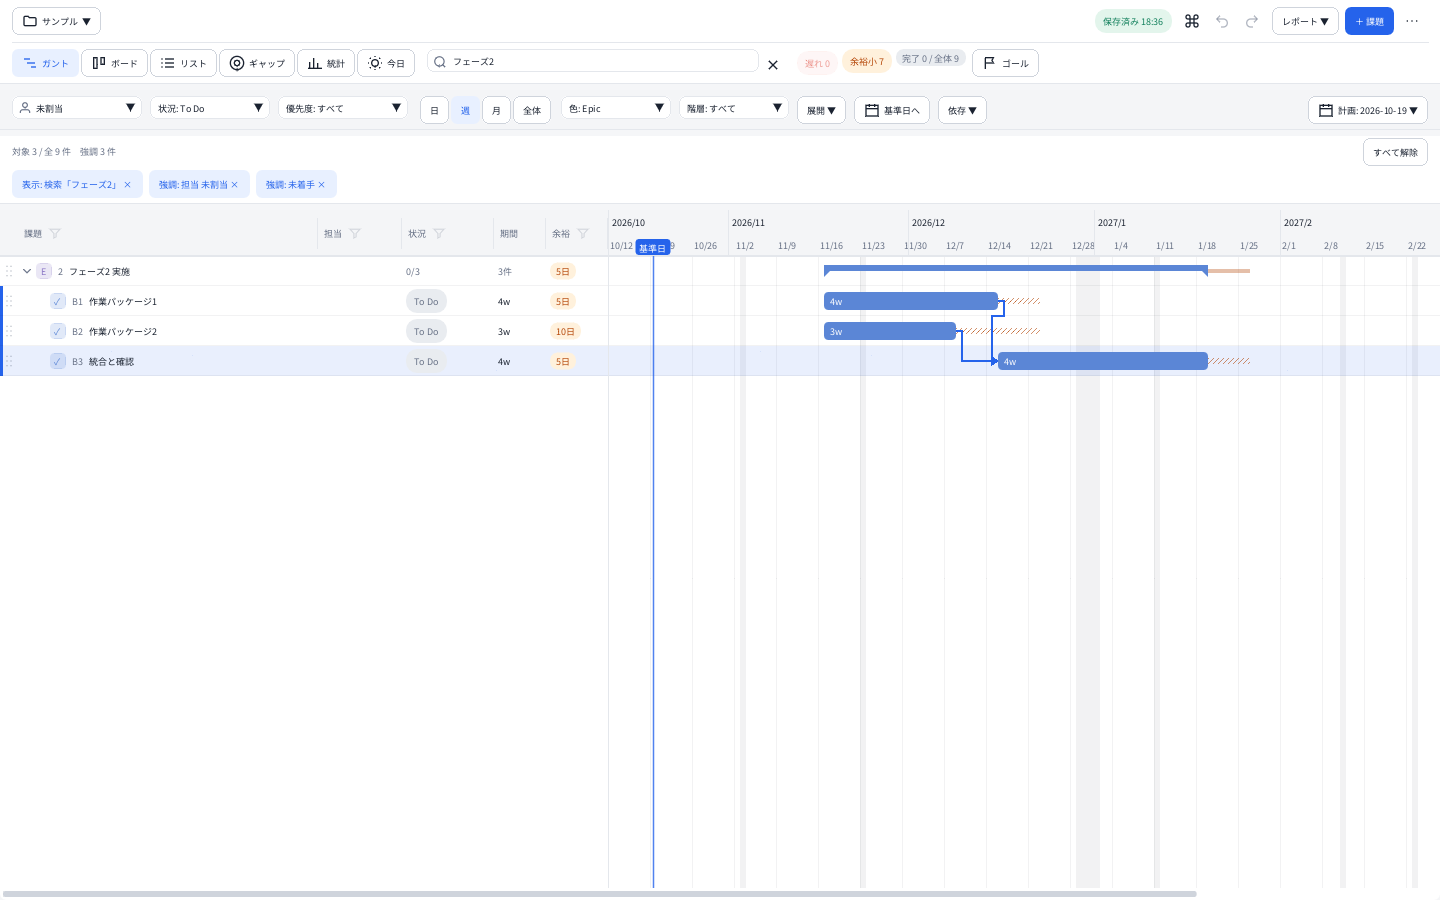
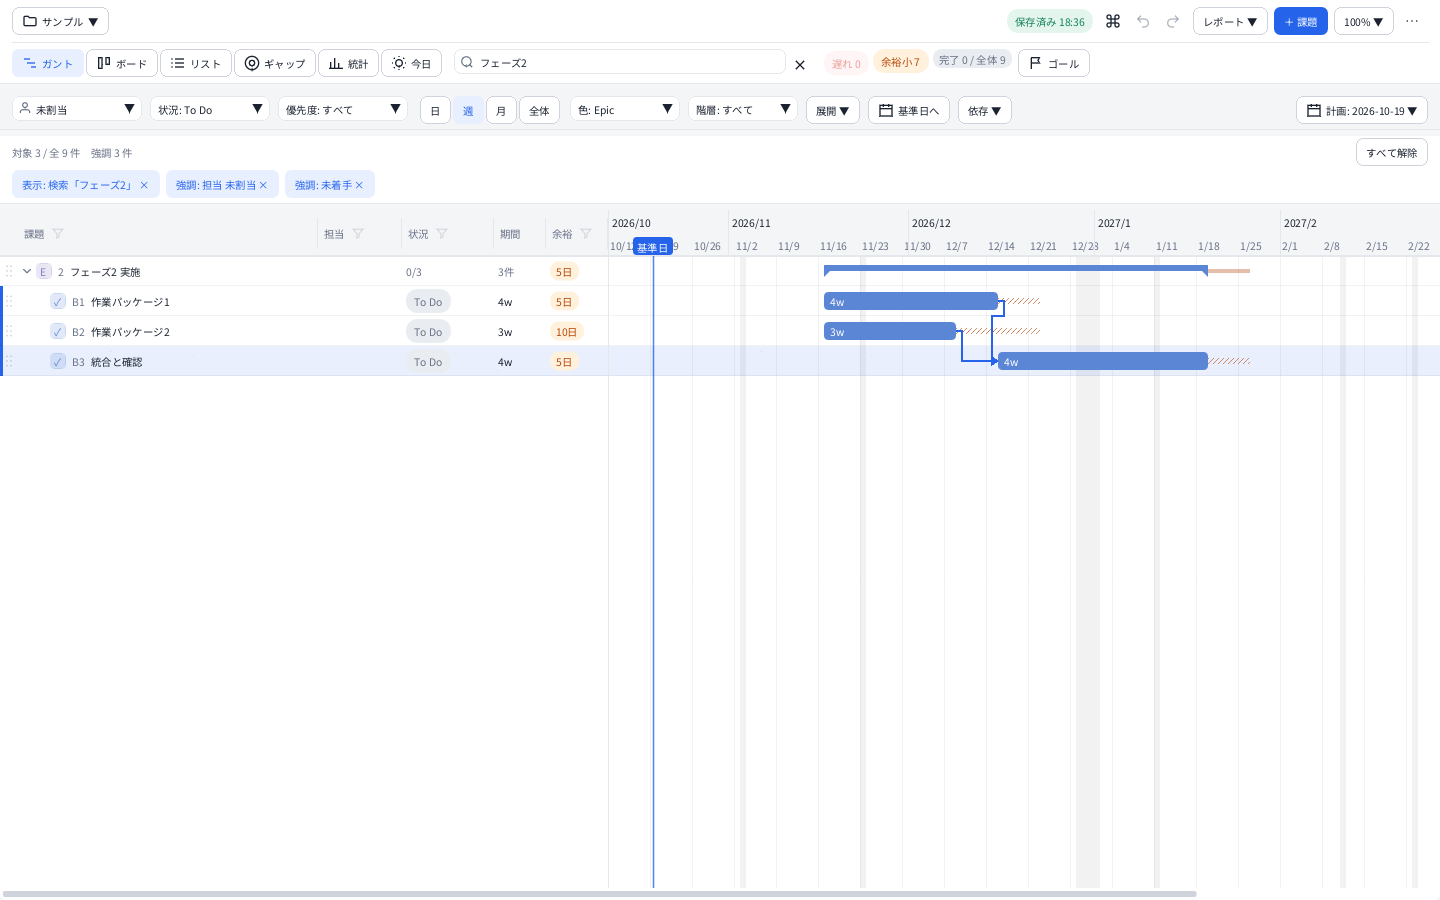
Improve high DPI readability and expose persistent display scale presets

diff --git a/app/ui/app_ui.cpp b/app/ui/app_ui.cpp
@@ -598,8 +598,9 @@ void drawTopBar(Frame& f) {
   // 右側: 保存状態 / Ctrl+K / 元に戻す / やり直す / ＋課題 / その他
   const std::string saved = c.saveState() == app::SaveState::Error ? S::kSaveError : c.saveState() == app::SaveState::Saving ? S::kSaving
       : std::string(S::kSaved) + (c.savedAt().empty() ? "" : " " + c.savedAt());
+  const std::string scaleLabel = std::to_string(c.prefs().uiScale) + "% ▼";
   const float rightW = ImGui::CalcTextSize(saved.c_str()).x + ImGui::CalcTextSize("レポート ▼").x +
-      ImGui::CalcTextSize(S::kAddIssue).x + u.m.s(16 + 28 * 4 + 20 * 2 + 28);
+      ImGui::CalcTextSize(S::kAddIssue).x + ImGui::CalcTextSize(scaleLabel.c_str()).x + u.m.s(16 + 28 * 4 + 20 * 3 + 34);
   ImGui::SameLine(0, 0);
   const float rx = p0.x + W - rightW - u.m.s(12);
   if (ImGui::GetCursorScreenPos().x < rx) ImGui::SetCursorScreenPos(ImVec2(rx, by));
@@ -674,6 +675,28 @@ void drawTopBar(Frame& f) {
     if (!id.empty()) beginEdit(f, id, EditField::Name, true);
   }
   remember("add");
+  ImGui::SameLine(0, u.m.s(6));
+  if (iconTextButton(u, "scale", nullptr, scaleLabel.c_str())) ImGui::OpenPopup("##scale");
+  remember("scale");
+  tip("文字とボタンの大きさを変更します（Windows の表示倍率に追加）");
+  const ImVec2 scaleAnchor = u.headerControls["scale"].second;
+  ImGui::SetNextWindowPos(ImVec2(scaleAnchor.x, scaleAnchor.y + u.m.s(4)), ImGuiCond_Appearing, ImVec2(1, 0));
+  if (ImGui::BeginPopup("##scale")) {
+    if (!u.imeComposing && ImGui::IsKeyPressed(ImGuiKey_Escape, false)) {
+      ImGui::CloseCurrentPopup();
+      u.popupEscFrame = ImGui::GetFrameCount();
+    }
+    ImGui::TextDisabled("文字・ボタンの大きさ");
+    for (int pct : {100, 125, 150, 175, 200}) {
+      const std::string label = std::to_string(pct) + (pct == 100 ? "%（標準）" : "%");
+      if (ImGui::MenuItem(label.c_str(), nullptr, c.prefs().uiScale == pct)) c.setUiScale(pct);
+      remember("scale:" + std::to_string(pct));
+    }
+    ImGui::Separator();
+    if (ImGui::MenuItem("表示設定…")) openDialog(f, Dlg::AppSettings);
+    ImGui::TextDisabled("Ctrl+ホイールで調整 / Ctrl+0で100%%");
+    ImGui::EndPopup();
+  }
   ImGui::SameLine(0, u.m.s(4));
   if (iconButton(u, "more", "more", S::kMore)) ImGui::OpenPopup("##more");
   remember("more");
@@ -710,9 +733,18 @@ void drawTopBar(Frame& f) {
   } tabs[] = {{View::Gantt, "gantt", S::kViewGantt}, {View::Board, "board", S::kViewBoard},
               {View::List, "list", S::kViewList}, {View::Goals, "target", S::kViewGoals}, {View::Stats, "chart", S::kViewStats},
               {View::Today, "sun", S::kViewToday}};
+  const float searchW = std::clamp(W * 0.25f, u.m.s(180), u.m.s(360));
+  float labelledW = searchW + u.m.s(24);
+  for (const auto& tab : tabs) labelledW += ImGui::CalcTextSize(tab.label).x + u.m.s(42);
+  if (s && s->tree()) {
+    const Summary sm = s->summary();
+    const std::string summary = std::string(S::kLate) + " " + std::to_string(sm.late) + S::kTight + " " + std::to_string(sm.tight) +
+        "完了 " + std::to_string(sm.done) + " / 全体 " + std::to_string(sm.total) + S::kGoal;
+    labelledW += ImGui::CalcTextSize(summary.c_str()).x + u.m.s(108);
+  }
+  const bool narrow = W < labelledW;
   for (const auto& t : tabs) {
     ImGui::SetCursorScreenPos(ImVec2(ImGui::GetCursorScreenPos().x, by));
-    const bool narrow = W < u.m.s(1040);
     const bool pressed = narrow ? iconButton(u, t.label, t.icon, t.label, s != nullptr, cur == t.v)
                                 : iconTextButton(u, t.label, t.icon, t.label, false, cur == t.v, s != nullptr);
     if (pressed) c.setView(t.v);
@@ -724,7 +756,7 @@ void drawTopBar(Frame& f) {
   // 絞り込み欄
   {
     ImGui::SetCursorScreenPos(ImVec2(ImGui::GetCursorScreenPos().x, by));
-    const float w = std::clamp(W * 0.25f, u.m.s(180), u.m.s(360));
+    const float w = searchW;
     const ImVec2 q = ImGui::GetCursorScreenPos();
     if (u.focusSearch) {
       ImGui::SetWindowFocus();  // Esc で外したフォーカスも戻してから入力欄へ移す

diff --git a/app/tests/ui_smoke.cpp b/app/tests/ui_smoke.cpp
@@ -165,6 +165,23 @@ struct Harness {
       ImGui::Render();
     }
   }
+  void renderScale(float scale) {
+    // Win32 と同様に文字も作り直す。部品の寸法だけを広げるテストにはしない。
+    ImGuiIO& io = ImGui::GetIO();
+    io.Fonts->Clear();
+    ImFontConfig cfg;
+    cfg.SizePixels = ui::kBodyFontSize * scale;
+    u.fontBody = io.Fonts->AddFontDefault(&cfg);
+    u.fontMono = u.fontBold = u.fontBody;
+    cfg.SizePixels = ui::kHeadingFontSize * scale;
+    u.fontLarge = io.Fonts->AddFontDefault(&cfg);
+    io.FontDefault = u.fontBody;
+    unsigned char* pixels;
+    int w, h;
+    io.Fonts->GetTexDataAsRGBA32(&pixels, &w, &h);
+    u.m.scale = scale;
+    ui::applyStyle(*u.t, u.m);
+  }
   void key(ImGuiKey k, bool ctrl = false, bool shift = false) {
     ImGuiIO& io = ImGui::GetIO();
     io.AddKeyEvent(ImGuiMod_Ctrl, ctrl);
@@ -599,9 +616,50 @@ void navigationUxScenario() {
   }
   check(lastY > firstY && hasRect(h.u.clearFiltersBtn), "条件が多いときは折り返し、解除の入口を保つ");
 }
+void readabilityScenario() {
+  Harness h;
+  h.c.createProject(app::SampleKind::Hierarchy, "表示倍率の確認", "DEV");
+  h.frame(3);
+  auto scale = h.u.headerControls.find("scale");
+  check(scale != h.u.headerControls.end(), "設定を開かずに表示倍率を選べる");
+  if (scale == h.u.headerControls.end()) return;
+  const ImVec2 button = center(scale->second);
+  h.click(button.x, button.y);
+  h.frame(3);
+  const auto preset = h.u.headerControls.find("scale:150");
+  check(preset != h.u.headerControls.end(), "表示倍率の150%を選べる");
+  if (preset == h.u.headerControls.end()) return;
+  const ImVec2 choice = center(preset->second);
+  h.click(choice.x, choice.y);
+  check(h.c.prefs().uiScale == 150 && loadPrefs(h.fs, "prefs.json").uiScale == 150, "選んだ倍率を保存する");
+  ImGui::GetIO().DisplaySize = ImVec2(3840, 2160);
+  for (bool compact : {false, true}) {
+    h.u.m.compact = compact;
+    for (float dpi : {1.5f, 2.f}) {
+      for (int pct : {100, 125, 150, 200}) {
+        h.c.setUiScale(pct);
+        h.renderScale(dpi * static_cast<float>(pct) / 100.f);
+        h.frame(3);
+        // ImGui 1.90 はフォントの小数部分を切り捨てる（15px × 150% は22px）。
+        check(h.u.fontBody->FontSize >= 22.f && h.u.fontLarge->FontSize > h.u.fontBody->FontSize,
+              "高DPIでは本文・見出しを拡大し、見出しの大きさを保つ");
+        for (const char* id : {"project", "scale", "reports", "add", "more", "search", "late", "tight", "summary", "goal", "plan"}) {
+          const auto control = h.u.headerControls.find(id);
+          const bool fits = control != h.u.headerControls.end() && hasRect(control->second) &&
+              control->second.first.x >= 0 && control->second.second.x <= 3840;
+          check(fits, (std::string("実際のフォントを拡大しても4K画面の中に操作が収まる: ") + id).c_str());
+        }
+      }
+    }
+  }
+}
 }  // namespace
 
 int main(int argc, char** argv) {
+  if (argc == 2 && std::string(argv[1]) == "--readability") {
+    readabilityScenario();
+    return failures ? 1 : 0;
+  }
   if (argc == 2 && std::string(argv[1]) == "--ux") {
     navigationUxScenario();
     return failures ? 1 : 0;
@@ -614,6 +672,7 @@ int main(int argc, char** argv) {
   readOnlyScenario(true);
   keyboardUxScenario();
   navigationUxScenario();
+  readabilityScenario();
   Harness h;
   h.frame(3);  // はじめに
   check(h.c.firstRun(), "初回はプロジェクトなし");

diff --git a/app/tests/ui_screens.cpp b/app/tests/ui_screens.cpp
@@ -181,21 +181,28 @@ int main(int argc, char** argv) {
   }
   ImVector<ImWchar> ranges;
   rb.BuildRanges(&ranges);
-  ImFontConfig cfg;
-  cfg.FontNo = fontNo;
-  cfg.OversampleH = 1;
-  u.fontBody = io.Fonts->AddFontFromFileTTF(fontPath.c_str(), 13.f, &cfg, ranges.Data);
-  if (!u.fontBody) {
+  Tex tex;
+  const auto buildFonts = [&](float scale) {
+    io.Fonts->Clear();
+    ImFontConfig cfg;
+    cfg.FontNo = fontNo;
+    cfg.OversampleH = 1;
+    u.fontBody = io.Fonts->AddFontFromFileTTF(fontPath.c_str(), ui::kBodyFontSize * scale, &cfg, ranges.Data);
+    if (!u.fontBody) return false;
+    u.fontMono = u.fontBold = u.fontBody;
+    u.fontLarge = io.Fonts->AddFontFromFileTTF(fontPath.c_str(), ui::kHeadingFontSize * scale, &cfg, ranges.Data);
+    io.FontDefault = u.fontBody;
+    unsigned char* pixels;
+    io.Fonts->GetTexDataAsRGBA32(&pixels, &tex.w, &tex.h);
+    tex.rgba = pixels;
+    u.m.scale = scale;
+    ui::applyStyle(*u.t, u.m);
+    return true;
+  };
+  if (!buildFonts(1.f)) {
     std::fprintf(stderr, "フォントを読めません: %s\n", fontPath.c_str());
     return 1;
   }
-  u.fontMono = u.fontBold = u.fontBody;
-  u.fontLarge = io.Fonts->AddFontFromFileTTF(fontPath.c_str(), 17.f, &cfg, ranges.Data);
-  Tex tex;
-  unsigned char* pixels;
-  io.Fonts->GetTexDataAsRGBA32(&pixels, &tex.w, &tex.h);
-  tex.rgba = pixels;
-  ui::applyStyle(*u.t, u.m);
   c.start();
 
   const auto frames = [&](int n) {
@@ -234,6 +241,31 @@ int main(int argc, char** argv) {
   }
   c.prefs().hintDismissed = false;
   c.select("9");
+  if (only && onlyBuf == "readability") {
+    c.prefs().hintDismissed = true;
+    clk.advanceMs(15000);
+    shot("readability_01_default");
+    const auto box = u.headerControls.at("scale");
+    io.AddMousePosEvent((box.first.x + box.second.x) / 2, (box.first.y + box.second.y) / 2);
+    io.AddMouseButtonEvent(0, true);
+    frames(1);
+    io.AddMouseButtonEvent(0, false);
+    frames(2);
+    shot("readability_02_scale_menu");
+    io.AddKeyEvent(ImGuiKey_Escape, true);
+    frames(1);
+    io.AddKeyEvent(ImGuiKey_Escape, false);
+    frames(2);
+    io.DisplaySize = ImVec2(3840, 2160);
+    for (int pct : {100, 150}) {
+      c.setUiScale(pct);
+      // Windows の表示倍率200%に、アプリの倍率を追加した4Kの見本。
+      if (!buildFonts(2.f * static_cast<float>(pct) / 100.f)) return 1;
+      shot("readability_4k_" + std::to_string(pct));
+    }
+    ImGui::DestroyContext();
+    return 0;
+  }
   if (only && onlyBuf == "ux") {
     c.prefs().hintDismissed = true;
     clk.advanceMs(15000);

diff --git a/app/platform/win32_main.cpp b/app/platform/win32_main.cpp
@@ -217,7 +217,7 @@ void buildFonts(ui::UiState& u) {
   ImGuiIO& io = ImGui::GetIO();
   io.Fonts->Clear();
   const std::string dir = fontsDir();
-  const float px = 13.0f * uiScale();
+  const float px = ui::kBodyFontSize * uiScale();
   // 文字の範囲: 日本語（常用漢字を含む約3,000字）+ 記号 + データにある文字
   ImFontGlyphRangesBuilder rb;
   rb.AddRanges(io.Fonts->GetGlyphRangesJapanese());
@@ -255,7 +255,11 @@ void buildFonts(ui::UiState& u) {
     io.Fonts->AddFontFromFileTTF(p.c_str(), size, &cfg, sym);
   };
   u.fontBody = load(regular, 4, px, false, ranges.Data);
-  if (!u.fontBody) u.fontBody = io.Fonts->AddFontDefault();
+  if (!u.fontBody) {
+    ImFontConfig cfg;
+    cfg.SizePixels = px;
+    u.fontBody = io.Fonts->AddFontDefault(&cfg);
+  }
   symbols(px);
   // 等幅（数字・日付）: Consolas + 日本語を合成
   {
@@ -269,7 +273,7 @@ void buildFonts(ui::UiState& u) {
   u.fontBold = load(bold, 2, px, false, ranges.Data);
   if (u.fontBold) symbols(px);
   else u.fontBold = u.fontBody;
-  u.fontLarge = load(regular, 4, 17.0f * gDpiScale, false, ranges.Data);
+  u.fontLarge = load(regular, 4, ui::kHeadingFontSize * uiScale(), false, ranges.Data);
   if (!u.fontLarge) u.fontLarge = u.fontBody;
   io.Fonts->Build();
   ImGui_ImplDX11_InvalidateDeviceObjects();

diff --git a/app/ui/dialogs.cpp b/app/ui/dialogs.cpp
@@ -927,6 +927,7 @@ void dlgAppSettings(Frame& f) {
   ImGui::EndDisabled();
   ImGui::SameLine();
   ImGui::TextDisabled("Ctrl+ホイール・Ctrl+「+」「-」・Ctrl+0 でも変えられます");
+  ImGui::TextDisabled("Windows の表示倍率に加えて、文字とボタンの大きさを調整します。");
   ImGui::AlignTextToFramePadding();
   ImGui::TextUnformatted("絞り込みで薄くする課題の濃さ");
   ImGui::SameLine();

diff --git a/app/ui/theme.hpp b/app/ui/theme.hpp
@@ -5,6 +5,9 @@
 
 namespace roadmap::ui {
 
+inline constexpr float kBodyFontSize = 15.f;
+inline constexpr float kHeadingFontSize = 20.f;
+
 struct Tokens {
   ImU32 bg, surface, surface2, surface3, ink, muted, line, line2;
   ImU32 accent, accentInk, accentBg;

diff --git a/README.md b/README.md
@@ -137,7 +137,7 @@ Cairn/
 - 以前の平置き（`プロジェクト名.csv` と `プロジェクト名.settings.json`）は、そのまま読み書きできます。自動では動かしません。「アプリの設定」の保存先にある「フォルダ構成に移す」で、移す前に `_バックアップ/移行前…` へ控えを作ってから移せます
 - 共有フォルダで交代して使う（編集中のロック）: 開いているプロジェクトのフォルダに `.roadmap.lock`（アプリの設定の「自分の名前」とパソコンの名前が入ります）を作り、ほかの人が編集中なら**読み取り専用**で開きます（上部の帯の「再確認」「編集を引き継ぐ」。更新が 3 分ない古いロックは引き継げます）。保存のたびにロックを確かめ、奪われていたら保存せず、未保存の編集は別のプロジェクト「（未保存の編集）」に残します。共有ドライブ（SMB）を想定しています。**OneDrive・Google Drive などの同期フォルダでは確実に働きません**。ロックを知らない古い版と混ぜて使うと効きません。アプリの設定でオフにできます
 - 絞り込み: 上のバーの担当・状況・優先度と「遅れ」「余裕小」のチップは、一致しない課題を**薄く**表示します（行は減らない）。検索語と、表の列名の右の漏斗（列の絞り込み）は、一致しない課題を**隠し**ます
-- 拡大縮小: `Ctrl+ホイール`（タッチパッドのピンチも）・`Ctrl+「+」「-」`・`Ctrl+0`（100%）で画面全体。ガントの時間軸の上の `Ctrl+ホイール` は時間軸だけを広げ縮めます（マウスの位置の日付は動きません）
+- 拡大縮小: 上部の「100% ▼」から100／125／150／175／200%を選べます。Windows の表示倍率を基準に、文字とボタンをさらに拡大縮小して保存します。`Ctrl+ホイール`（タッチパッドのピンチも）・`Ctrl+「+」「-」`・`Ctrl+0`（100%）でも調整できます。ガントの時間軸の上の `Ctrl+ホイール` は時間軸だけを広げ縮めます（マウスの位置の日付は動きません）。
 - 削除: 行（ボードはカード）にマウスを載せると出るごみ箱、`Delete` キー、右クリックのメニュー。通知の「元に戻す」で戻せます
 - 主なキー: `Ctrl+K` コマンドパレット、`1`〜`6` ビュー切替、`N` 追加、`Tab`/`Shift+Tab` 階層、`Enter`/`F2` 名前の編集、`?` ショートカット一覧
 - 上部1段目はプロジェクトの切替・保存・課題追加、2段目はビュー切替・検索です。「レポート」から HTML 報告・週報・CSV・バックアップを選べます。

diff --git a/docs/ui-spike.md b/docs/ui-spike.md
@@ -35,3 +35,5 @@
 ## 上部の操作・条件表示の確認
 
 `roadmap_ui_smoke --ux` で、960〜1440px相当の幅・標準／コンパクト・100／150%での配置、レポートの入口、計画の「今日にする」、条件の個別解除と折り返しを確認できます。`ROADMAP_SHOT_ONLY=ux roadmap_ui_screens <出力フォルダ>` は、通常・条件付き・960px・レポートのメニュー・計画のメニュー・ダークの6枚を出力します。
+
+`roadmap_ui_smoke --readability` は、倍率の選択と保存、4K相当の画面でDPI150／200%とアプリ100／125／150／200%の組み合わせを確認します。文字のフォントも作り直し、標準／コンパクトの両方で配置を確認します。`ROADMAP_SHOT_ONLY=readability roadmap_ui_screens <出力フォルダ>` は、標準サイズ・倍率メニュー・4KでWindows200%相当＋アプリ100／150%の画像を出力します。Windows 実機の表示とは別に、Noto Sans CJK のソフトウェア描画で確認するものです。

diff --git a/docs/CHANGELOG.md b/docs/CHANGELOG.md
@@ -3,6 +3,8 @@
 ## 未リリース
 
 ### 操作性
+- 標準の本文を13pxから15px、見出しを17pxから20pxに広げました。本文・見出し・ボタンは Windows の DPI とアプリの表示倍率に合わせて拡大します。
+- 上部の倍率表示から100／125／150／175／200%を選べるようにしました。文字が大きいときも上部の操作が収まるよう、ラベルの実際の幅でビュー切替の表示を調整します。
 - 上部をプロジェクトの操作とビュー切替・検索の2段に分けました。狭い画面ではビュー切替をアイコンで表示します。
 - 「レポート」から HTML 報告・週報・CSV・バックアップを選べるようにしました。
 - 基準日・シナリオ・同時作業の制限を、横スクロールの外にある「計画」にまとめました。「今日にする」で基準日を戻せます。
